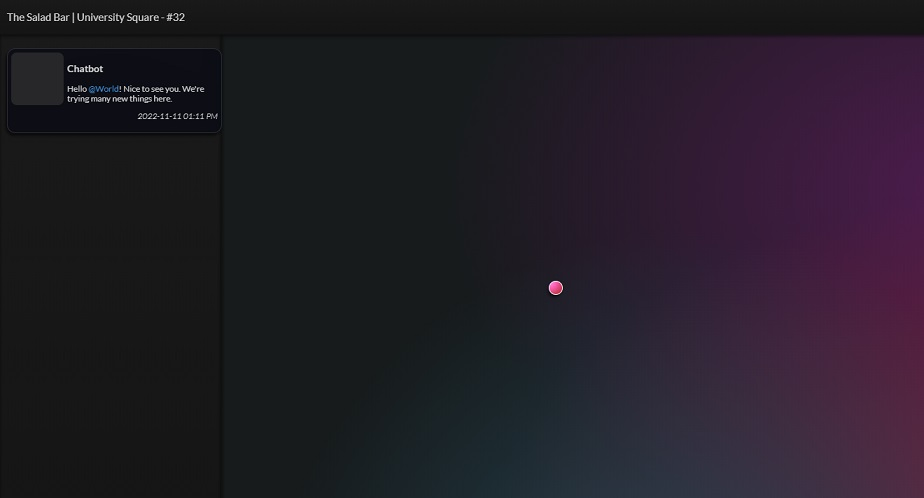
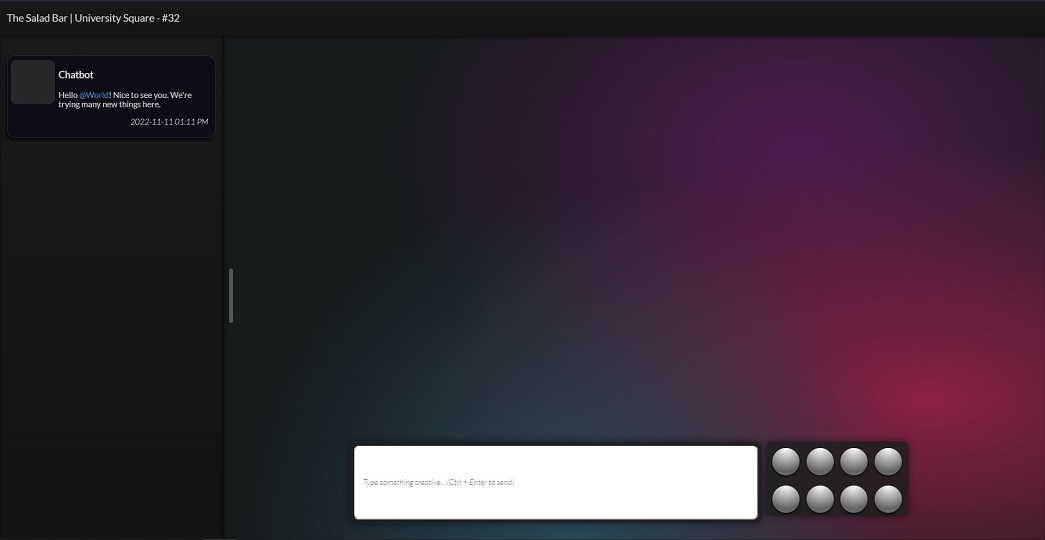
overlaid handle/input; minor changes to chat area

diff --git a/src/flatGlass.css b/src/flatGlass.css
@@ -36,10 +36,10 @@ body {
 
 #pt-container {
     contain: content; /* force new stacking context */
-    padding: 0;
-    /* hard-code canvas size for now */
-    width: 102%;
-    height: 102%;
+    padding: 0; margin: 0;
+    /* fit canvas to the window for now */
+    width: 100%;
+    height: 100%;
 }
 
 main {
@@ -60,15 +60,24 @@ main #input-bar {
     flex-direction: row;
     flex-wrap: nowrap;
     gap: 6px;
+    /* overlay over the canvas/ */
+    position: relative;
+    bottom: 145px;
+    margin: 0 15% 0;
 }
 
 main input {
     padding: 12px;
+    width: 100%;
+    height: 100%;
+    box-sizing: border-box;
+    border-radius: inherit;
 }
 
 main #input-wrapper {
     height: 110px;
     width: 595px;
+    padding: 5px;
     border-radius: 8px;
     background-color: rgba(30,30,30,0.85);
     box-shadow: 0 0 12px 0 rgba(0,0,0,0.5);
@@ -89,6 +98,9 @@ main #drawer-handle {
     border-radius: 8px;
     background-color: #575757;
     margin: 0 10px;
+    /* overlay over the canvas/ */
+    position: relative;
+    bottom: 70%;
 }
 
 main #chest {
@@ -116,11 +128,12 @@ main #chest {
     background: linear-gradient(180deg, #1A1A1A 0%, #151515 87%);
     width: 315px;
     box-shadow: inset 0 3px 5px 0 rgba(0,0,0,0.5);
+    padding: 10px;
 }
 
 #chat-record .user-icon {
-    height: 75px;
-    width: 75px;
+    height: 65px;
+    width: 65px;
     border-radius: 8px;
     background-color: #272728;
 }
@@ -128,7 +141,7 @@ main #chest {
 #chat-record .chat-bubble {
     width: 295px;
     border-radius: 12px;
-    margin: 20px 10px;
+    margin: 20px 0;
     display: flex;
     flex-direction: row;
     gap: 5px;
@@ -165,6 +178,7 @@ main #chest {
     font-family: "Lato Light";
     font-style: italic;
     text-align: right;
+    margin-right: 5px;
 }
 
 #chat-record .chat-body .tagged { color:rgb(61, 142, 218); }
